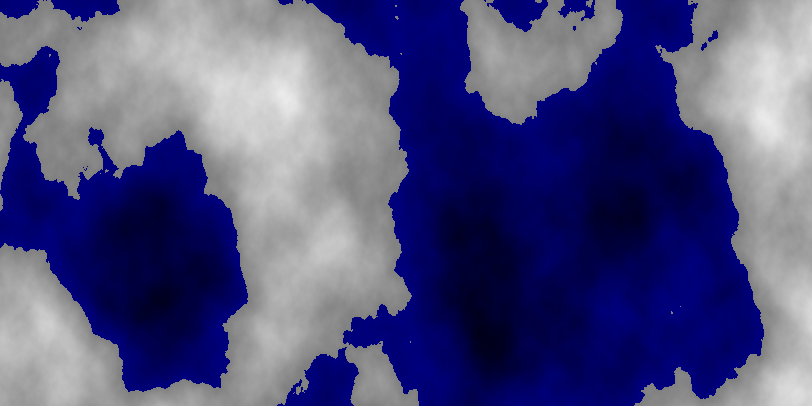
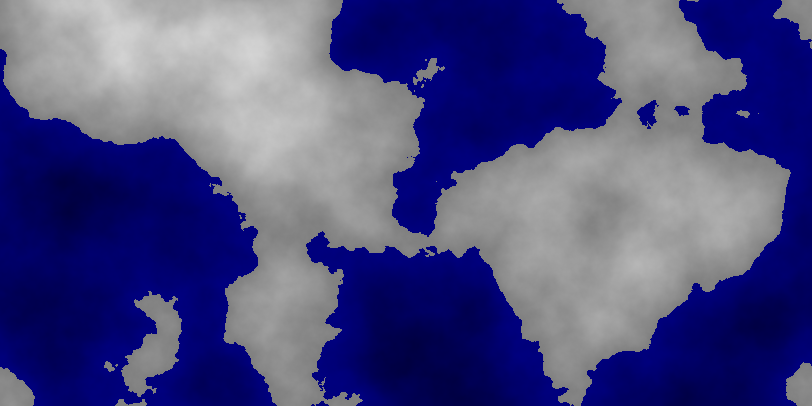
feat: wrapping map

diff --git a/src/World.cpp b/src/World.cpp
@@ -26,23 +26,33 @@ namespace sim {
 
 	void World::GenerateElevation(){
 		float scale     = 40.f;
-		float offset_x  = 5.9f;
-		float offset_y  = 5.1f;
-		float offset_z  = 0.05f;
-		float lacunarity    = 1.99f;
-		float persistance   = 0.5f;
+		/* float offset_x  = 5.9f; */
+		/* float offset_y  = 5.1f; */
+		/* float offset_z  = 0.05f; */
+		/* float lacunarity    = 1.99f; */
+		/* float persistance   = 0.5f; */
 		
 
-		const SimplexNoise simplex(0.1/scale, 0.5f, lacunarity, persistance);
+		/* const SimplexNoise simplex(0.1/scale, 0.5f, lacunarity, persistance); */
+		const SimplexNoise simplex(1/400.f);
 		const int octaves = static_cast<int>(5 + std::log(scale));
-
+		
+		const float radius = m_WIDTH/(M_PI*2.f);
 
 		for(unsigned j = 0; j < m_HEIGHT; ++j){
-			const float y = static_cast<float>(j - m_HEIGHT/2.f + offset_y*scale);
+			/* const float Y = static_cast<float>(j - m_HEIGHT/2.f + offset_y*scale); */
 			for(unsigned i = 0; i < m_WIDTH; ++i){
-				const float x = static_cast<float>(i - m_WIDTH/2.f + offset_x*scale);
+				/* const float X = static_cast<float>(i - m_WIDTH/2.f + offset_x*scale); */
 				
-				const float noise = simplex.fractal(octaves, x + seed, y + seed) + offset_z;
+				float angle = i/radius;
+
+				float x = std::sin(angle)*radius;
+				float y = j;
+				float z = std::cos(angle)*radius;
+				
+				/* std::cout << M_2_PI << '\n'; */
+				/* std::cout << x << " " << y << " " << z << '\n'; */
+				const float noise = simplex.fractal(octaves, x + seed, y , z + seed);
 				m_elevation_map[j][i] = noise;
 			}
 		}
